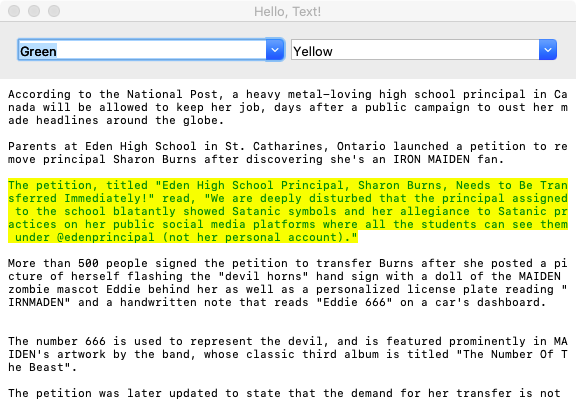
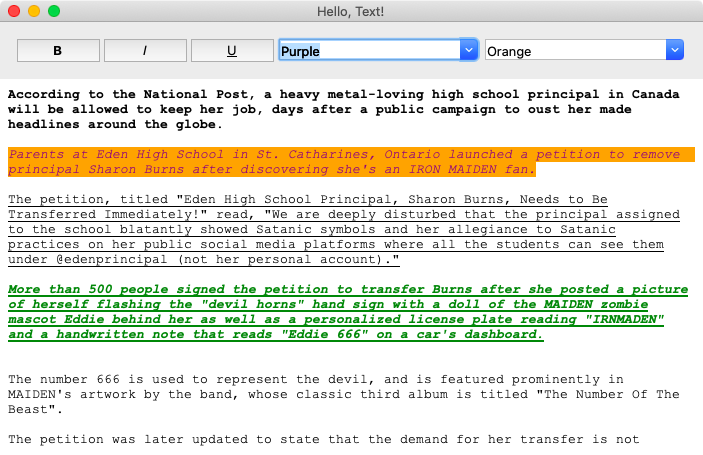
Document Hello, Text! changes with font formatting support

diff --git a/samples/hello/hello_text.rb b/samples/hello/hello_text.rb
@@ -72,14 +72,24 @@ class HelloText
           end
         }
         
+        button {
+          grid row: 0, column: 2, column_weight: 0
+          text 'U'
+          style font: {underline: true}
+          
+          on('command') do
+            @text.toggle_selection_font_format('underline', true)
+          end
+        }
+        
         combobox {
-          grid row: 0, column: 2, column_weight: 1
+          grid row: 0, column: 4, column_weight: 1
           readonly true
           text <=> [self, :foreground, after_write: ->(value) { @text.add_selection_format('foreground', value == FOREGROUND_PROMPT ? 'black' : value) }]
         }
         
         combobox {
-          grid row: 0, column: 3, column_weight: 1
+          grid row: 0, column: 5, column_weight: 1
           readonly true
           text <=> [self, :background, after_write: ->(value) { @text.add_selection_format('background', value == BACKGROUND_PROMPT ? 'black' : value) }]
         }

diff --git a/lib/glimmer/tk/widget_proxy.rb b/lib/glimmer/tk/widget_proxy.rb
@@ -253,7 +253,7 @@ module Glimmer
       
       def apply_style(options)
         @@style_number = 0 unless defined?(@@style_number)
-        style = "style#{@@style_number}.#{@tk.class.name.split('::').last}"
+        style = "style#{@@style_number += 1}.#{@tk.class.name.split('::').last}"
         ::Tk::Tile::Style.configure(style, options)
         @tk.style = style
       end

diff --git a/README.md b/README.md
@@ -1,4 +1,4 @@
-# [<img src="https://raw.githubusercontent.com/AndyObtiva/glimmer/master/images/glimmer-logo-hi-res.png" height=85 />](https://github.com/AndyObtiva/glimmer) Glimmer DSL for Tk 0.0.26
+# [<img src="https://raw.githubusercontent.com/AndyObtiva/glimmer/master/images/glimmer-logo-hi-res.png" height=85 />](https://github.com/AndyObtiva/glimmer) Glimmer DSL for Tk 0.0.27
 ## MRI Ruby Desktop Development GUI Library
 [![Gem Version](https://badge.fury.io/rb/glimmer-dsl-tk.svg)](http://badge.fury.io/rb/glimmer-dsl-tk)
 [![Ruby](https://github.com/AndyObtiva/glimmer-dsl-tk/actions/workflows/ruby.yml/badge.svg)](https://github.com/AndyObtiva/glimmer-dsl-tk/actions/workflows/ruby.yml)
@@ -74,12 +74,15 @@ Other [Glimmer](https://github.com/AndyObtiva/glimmer) DSL gems:
     - [Supported Widgets](#supported-widgets)
       - [Common Attributes](#common-attributes)
       - [Common Themed Widget States](#common-themed-widget-states)
+      - [Text Extra API Methods](#text-extra-api-methods)
     - [Smart Defaults and Conventions](#smart-defaults-and-conventions)
       - [Grid Layout](#grid-layout)
       - [Image Attribute](#image-attribute)
       - [Frame Padding](#frame-padding)
       - [Notebook Frame](#notebook-frame)
       - [Icon Photo](#icon-photo)
+      - [Root Background](#root-background)
+      - [Text Defaults](#text-defaults)
   - [The Grid Geometry Manager](#the-grid-geometry-manager)
   - [Data-Binding](#data-binding)
     - [Label Data-Binding](#label-data-binding)
@@ -145,7 +148,7 @@ gem install glimmer-dsl-tk
 
 Add the following to `Gemfile`:
 ```
-gem 'glimmer-dsl-tk', '~> 0.0.26'
+gem 'glimmer-dsl-tk', '~> 0.0.27'
 ```
 
 And, then run:
@@ -316,6 +319,59 @@ keyword(args) | attributes | event bindings & callbacks
 - `invalid?`
 - `hover?`
 
+#### Text Extra API Methods
+
+[Glimmer DSL for Tk](https://rubygems.org/gems/glimmer-dsl-tk) automatically provides a `text` attribute for the `text` widget that enables updating its content simply without worrying about whether to manually insert by index, delete, or append.
+
+Also, the `text` widget is enhanced by [Glimmer DSL for Tk](https://rubygems.org/gems/glimmer-dsl-tk) to enable simpler manipulation of text options without dealing with [tags](https://tkdocs.com/tutorial/text.html) directly. Simply specify region to mutate and option/value or font_option/value, and [Glimmer DSL for Tk](https://rubygems.org/gems/glimmer-dsl-tk) takes care of the rest by automating work of adding/removing [tags](https://tkdocs.com/tutorial/text.html) behind the scenes.
+
+- `add_format(region_start, region_end, option, value)`
+- `remove_format(region_start, region_end, option, value)`
+- `toggle_format(region_start, region_end, option, value)`
+- `add_font_format(region_start, region_end, font_option, value)`
+- `remove_font_format(region_start, region_end, font_option, value)`
+- `toggle_font_format(region_start, region_end, font_option, value)`
+- `add_selection_format(region_start, region_end, option, value)`
+- `remove_selection_format(region_start, region_end, option, value)`
+- `toggle_selection_format(region_start, region_end, option, value)`
+- `add_selection_font_format(region_start, region_end, font_option, value)`
+- `remove_selection_font_format(region_start, region_end, font_option, value)`
+- `toggle_selection_font_format(region_start, region_end, font_option, value)`
+
+Available options:
+
+- `background`
+- `bgstipple`
+- `borderwidth`
+- `elide`
+- `fgstipple`
+- `foreground`
+- `justify`
+- `lmargin1`
+- `lmargin2`
+- `offset`
+- `overstrike`
+- `relief`
+- `rmargin`
+- `spacing1`
+- `spacing2`
+- `spacing3`
+- `tabs`
+- `tabstyle`
+- `underline`
+- `wrap`
+
+Available font options:
+
+- `family` (default: `'Courier New'`)
+- `size` (default: `13`)
+- `weight` (default: `'normal'`) (e.g. `'bold'`)
+- `slant` (default: `'roman'`) (e.g. `'italic`')
+- `underline` (default: `false`)
+- `overstrike` (default: `false`)
+
+Check out the [Hello, Text!](#hello-text) sample for a good demonstration of the `text` widget.
+
 ### Smart Defaults and Conventions
 
 #### Event Bindings
@@ -369,6 +425,12 @@ root {
 #### Root Background
 
 `root` `background` color attribute is automatically set to `'#ececec'` on the Mac to avoid having a non-native-looking light-colored background.
+
+#### Text Defaults
+
+`text` widget has these defaults:
+- `wrap = 'none'`
+- `font = {family: 'Courier New'}`
 
 ## The Grid Geometry Manager
 
@@ -1621,8 +1683,6 @@ Glimmer app:
 
 ### Hello, Text!
 
-[Glimmer DSL for Tk](https://rubygems.org/gems/glimmer-dsl-tk) automatically provides a `text` attribute for the `text` widget that enables updating its content simply without worrying about whether to manually insert by index, delete, or append.
-
 Glimmer code (from [samples/hello/hello_text.rb](samples/hello/hello_text.rb)):
 
 ```ruby
@@ -1659,14 +1719,44 @@ class HelloText
       frame {
         grid row: 0, column: 0
         
+        button {
+          grid row: 0, column: 0, column_weight: 0
+          text 'B'
+          style font: {weight: 'bold'}
+          
+          on('command') do
+            @text.toggle_selection_font_format('weight', 'bold')
+          end
+        }
+        
+        button {
+          grid row: 0, column: 1, column_weight: 0
+          text 'I'
+          style font: {slant: 'italic'}
+          
+          on('command') do
+            @text.toggle_selection_font_format('slant', 'italic')
+          end
+        }
+        
+        button {
+          grid row: 0, column: 2, column_weight: 0
+          text 'U'
+          style font: {underline: true}
+          
+          on('command') do
+            @text.toggle_selection_font_format('underline', true)
+          end
+        }
+        
         combobox {
-          grid row: 0, column: 0, column_weight: 1
+          grid row: 0, column: 4, column_weight: 1
           readonly true
           text <=> [self, :foreground, after_write: ->(value) { @text.add_selection_format('foreground', value == FOREGROUND_PROMPT ? 'black' : value) }]
         }
         
         combobox {
-          grid row: 0, column: 1, column_weight: 1
+          grid row: 0, column: 5, column_weight: 1
           readonly true
           text <=> [self, :background, after_write: ->(value) { @text.add_selection_format('background', value == BACKGROUND_PROMPT ? 'black' : value) }]
         }
@@ -1674,6 +1764,7 @@ class HelloText
       
       @text = text {
         grid row: 1, column: 0, row_weight: 1
+        wrap 'word'
         text <<~MULTI_LINE_STRING
           According to the National Post, a heavy metal-loving high school principal in Canada will be allowed to keep her job, days after a public campaign to oust her made headlines around the globe.
           

diff --git a/TODO.md b/TODO.md
@@ -2,14 +2,13 @@
 
 ## General
 
-- Improve Hello, Text! (toolbar buttons: font, font size, bold, italic, underline, strikethrough, cut, copy, paste, insert image, find dialog, undo, redo)
-- Fix issue with unbolding text in `text` widget when selecting multiple lines with an empty line
-- For simple text formatting options, on formatting, remove any old conflicting formats first (even if they get overridden)
+- Improve Hello, Text! (toolbar buttons: font, font size, cut, copy, paste, insert image, find dialog, undo, redo)
+- Autodiscover format options when moving cursor in `text` widget (auto-derive from applied tags and widget font)
+- Text Data-Binding
 
 - Allow setting root x/y without affecting its default width/height
 - Look into updating block_attribute expression to not require defining blocks that simply forward to tk on the widget
 - Support grid keyword arg 'column_span' (with _) and 'row_span' as aliases for columnspan and rowspan
-- Autodiscover format options when moving cursor in `text` widget (auto-derive from applied tags and widget font)
 - Document Glimmer debug logging
 
 - Document all the new `text` formatting methods as well as Text Data-Binding

diff --git a/CHANGELOG.md b/CHANGELOG.md
@@ -2,9 +2,11 @@
 
 ## 0.0.27
 
+- Improve Hello, Text! (toolbar buttons: bold, italic, underline)
+- Set correct `wrap 'word'` attribute for `text` widget in Hello, Text!
 - Default `text` widget to `wrap = 'none'`
 - Default `text` widget to `font = {family: 'Courier New'}`
-- Set correct `wrap 'word'` attribute for `text` widget in Hello, Text!
+- Fix issue with unbolding text in `text` widget when selecting multiple lines with an empty line
 
 ## 0.0.26
 
